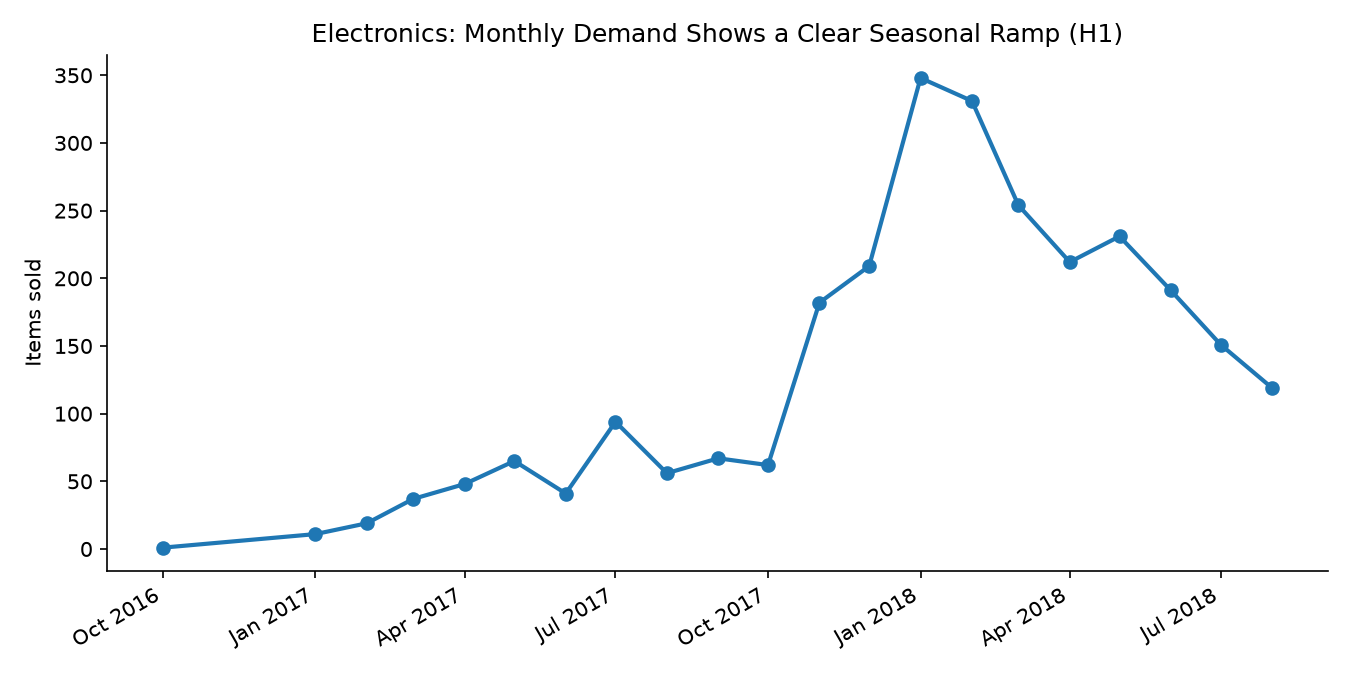
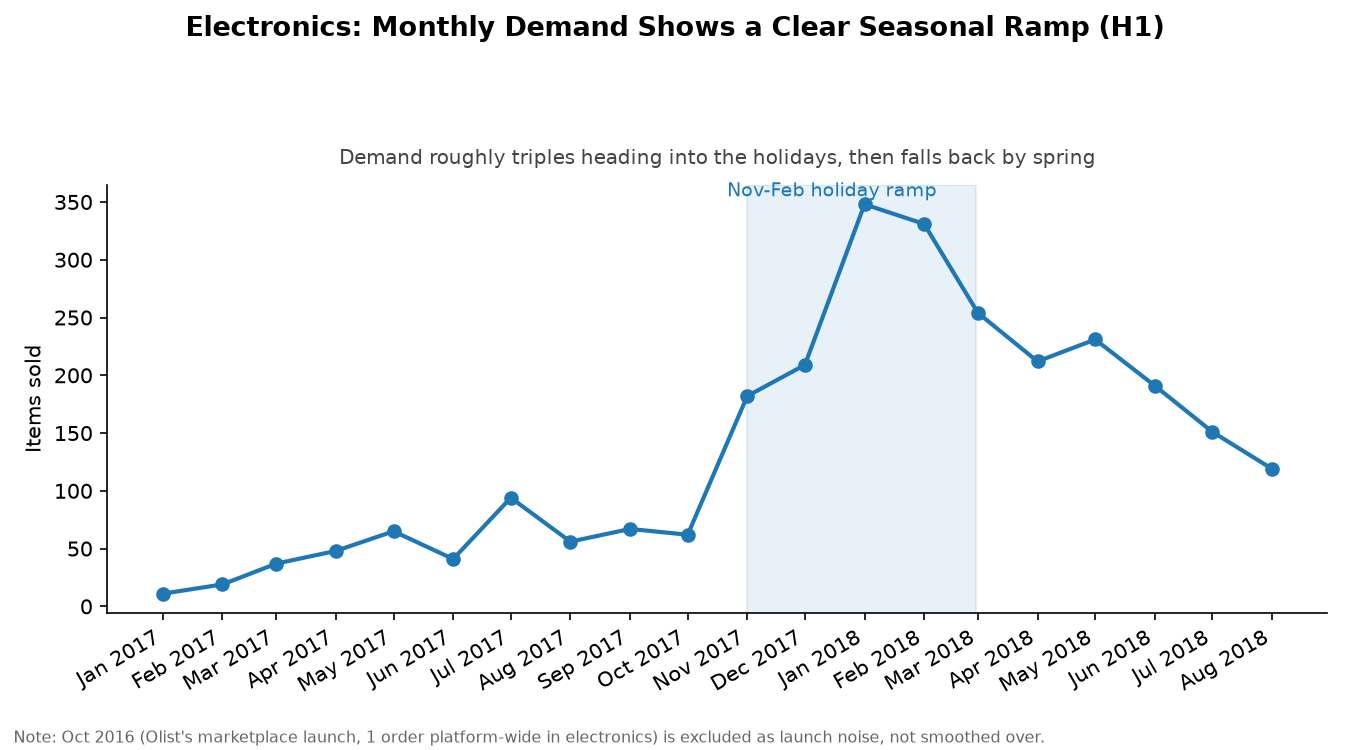
Finalize storytelling/reporting/charts pass (#1)
* Finalize storytelling/reporting/charts pass (accuracy, presentation, plain-language)

- H1 chart: start series at Jan 2017 with a footnote explaining the
  excluded Oct 2016 launch-noise point (1 order), instead of drawing a
  smooth line across the real Nov/Dec 2016 zero-order gap. Add a shaded
  Nov-Feb window and an on-chart takeaway subtitle.
- H2 chart: add an on-chart subtitle disambiguating item-count share
  from revenue share, addressing the "everything's growing yet losing
  share" confusion flagged in code review.
- H3: add a new binned delivery-days vs. review-score chart
  (output/h3_delivery_satisfaction.png) as the primary H3 artifact,
  replacing the raw lm() dump as the first thing a reader sees.
- Promote the H1 chart above the fold in README; add the new H3 chart
  next to its table row.
- README/HYPOTHESES: reword H1's decision to lead with buy-cadence logic
  and name the inventory-risk trade-off; add plain-language lines for
  the H2 confound (with explicit item-share vs. revenue-share framing)
  and H3's regression; trim the Power BI / Postgres sections to their
  public-facing essentials (detail moved to a private note); reformat
  HYPOTHESES.md for readability.
- Remove em dashes and prose double dashes from all public docs and
  code comments (SQL comment markers and decorative code banners left
  untouched, since those are syntax, not punctuation).
- src/03_migrate_to_supabase.py: comment out the pc_gamer translation
[…]

diff --git a/src/02_charts.py b/src/02_charts.py
@@ -1,49 +1,110 @@
 """
 02_charts.py
 
-Two illustrative charts supporting the findings -- kept intentionally
-simple (matplotlib, static PNG). These are placeholders for a Power BI
-report built later directly against the marts (see README "Where Power BI
-fits") -- not the final visualization layer.
+Illustrative charts supporting the findings, kept intentionally simple
+(matplotlib, static PNG). These are placeholders for a Power BI report
+built later directly against the marts (see README "Where Power BI
+fits"), not the final visualization layer. Each chart carries its own
+takeaway as a subtitle so it reads correctly without the surrounding
+README prose.
 """
 import duckdb
+import pandas as pd
 import matplotlib.pyplot as plt
 import matplotlib.dates as mdates
 
 con = duckdb.connect("data/processed/olist.duckdb")
 
-# Chart 1: seasonality curve for electronics (clear holiday-season ramp)
+# --- Chart 1: seasonality curve for electronics (H1) ------------------
+# Oct 2016 is Olist's marketplace launch month: 1 order platform-wide in
+# electronics, then zero orders in Nov/Dec 2016 before real volume starts
+# in Jan 2017. A straight line drawn across that zero-order gap would
+# read as smooth growth no data point supports, so the chart starts at
+# Jan 2017 and the excluded launch-noise point is footnoted instead.
 df = con.execute("""
     SELECT order_month, items_sold FROM mart_category_monthly_demand
-    WHERE category = 'electronics' ORDER BY order_month
+    WHERE category = 'electronics' AND order_month >= '2017-01-01'
+    ORDER BY order_month
 """).df()
-fig, ax = plt.subplots(figsize=(9, 4.5))
+
+fig, ax = plt.subplots(figsize=(9, 5))
 ax.plot(df["order_month"], df["items_sold"], marker="o", color="#1f77b4", linewidth=2)
-ax.set_title("Electronics: Monthly Demand Shows a Clear Seasonal Ramp (H1)")
+
+# Shade the holiday-season window the title/finding actually claims.
+season_start = pd.Timestamp("2017-11-01")
+season_end = pd.Timestamp("2018-02-28")
+ax.axvspan(season_start, season_end, color="#1f77b4", alpha=0.10)
+ax.text(pd.Timestamp("2017-12-15"), df["items_sold"].max() * 1.02,
+        "Nov-Feb holiday ramp", ha="center", fontsize=9, color="#1f77b4")
+
+fig.suptitle("Electronics: Monthly Demand Shows a Clear Seasonal Ramp (H1)",
+             fontsize=13, fontweight="bold", y=0.98)
+ax.set_title("Demand roughly triples heading into the holidays, then falls back by spring",
+             fontsize=9.5, color="#444444", pad=10)
 ax.set_ylabel("Items sold")
+ax.xaxis.set_major_locator(mdates.MonthLocator(interval=1))
 ax.xaxis.set_major_formatter(mdates.DateFormatter("%b %Y"))
 fig.autofmt_xdate()
 ax.spines[["top", "right"]].set_visible(False)
-fig.tight_layout()
+fig.text(0.01, 0.01,
+         "Note: Oct 2016 (Olist's marketplace launch, 1 order platform-wide in "
+         "electronics) is excluded as launch noise, not smoothed over.",
+         fontsize=7.5, color="#666666")
+fig.tight_layout(rect=[0, 0.04, 1, 0.90])
 fig.savefig("output/h1_electronics_seasonality.png", dpi=150)
 print("Wrote output/h1_electronics_seasonality.png")
 
-# Chart 2: growing vs declining share-of-demand categories (H2)
+# --- Chart 2: growing vs declining share-of-demand categories (H2) -----
 df2 = con.execute("""
     SELECT category, share_trend_slope FROM mart_category_share_trend
     ORDER BY share_trend_slope ASC
 """).df()
 top = df2.tail(6)
 bottom = df2.head(6)
-combined = pd_concat = __import__("pandas").concat([bottom, top])
+combined = pd.concat([bottom, top])
 colors = ["#d62728"] * len(bottom) + ["#2ca02c"] * len(top)
 
-fig, ax = plt.subplots(figsize=(9, 5.5))
+fig, ax = plt.subplots(figsize=(9, 6))
 ax.barh(combined["category"], combined["share_trend_slope"] * 1000, color=colors)
-ax.set_title("Gaining vs. Losing Share of Total Demand (H2, net of platform growth)")
+fig.suptitle("Gaining vs. Losing Share of Total Demand (H2, net of platform growth)",
+             fontsize=13, fontweight="bold", y=0.98)
+ax.set_title(
+    "Share = percent of that month's items sold (not revenue). A category\n"
+    "can lose share here even while total platform volume is rising.",
+    fontsize=9.5, color="#444444", pad=16)
 ax.set_xlabel("Monthly change in demand share (x1000, positive = gaining share)")
 ax.axvline(0, color="black", linewidth=0.8)
 ax.spines[["top", "right"]].set_visible(False)
-fig.tight_layout()
+fig.tight_layout(rect=[0, 0, 1, 0.85])
 fig.savefig("output/h2_share_trend.png", dpi=150)
 print("Wrote output/h2_share_trend.png")
+
+# --- Chart 3: delivery speed vs. review score (H3) ---------------------
+# The regression (r/h3_delivery_satisfaction.R) is the actual H3 test;
+# this chart makes its finding visible without reading a raw lm() dump.
+df3 = con.execute("""
+    SELECT delivery_days, review_score FROM mart_order_satisfaction
+    WHERE delivery_days >= 0 AND delivery_days < 120
+""").df()
+bins = [-0.5, 5.5, 10.5, 20.5, 1000]
+labels = ["0-5 days", "6-10 days", "11-20 days", "21+ days"]
+df3["bucket"] = pd.cut(df3["delivery_days"], bins=bins, labels=labels)
+summary = df3.groupby("bucket", observed=True)["review_score"].mean()
+
+fig, ax = plt.subplots(figsize=(8, 5))
+ax.bar(summary.index.astype(str), summary.values, color="#1f77b4")
+ax.plot(summary.index.astype(str), summary.values, color="#d62728",
+        marker="o", linewidth=2)
+fig.suptitle("Faster Delivery Predicts Higher Review Scores (H3)",
+             fontsize=13, fontweight="bold", y=0.98)
+ax.set_title(
+    "Each extra week of delivery time costs roughly a third of a star,\n"
+    "holding price and category fixed (R² = 0.1085, p < 0.001)",
+    fontsize=9.5, color="#444444", pad=16)
+ax.set_ylabel("Average review score (1-5)")
+ax.set_ylim(1, 5)
+ax.spines[["top", "right"]].set_visible(False)
+fig.tight_layout(rect=[0, 0, 1, 0.85])
+fig.savefig("output/h3_delivery_satisfaction.png", dpi=150)
+print("Wrote output/h3_delivery_satisfaction.png")
+print("(Full regression detail: run r/h3_delivery_satisfaction.R -> output/h3_regression_summary.txt)")

diff --git a/src/03_migrate_to_supabase.py b/src/03_migrate_to_supabase.py
@@ -7,9 +7,11 @@ fixes surfaced by a pre-migration review (see README "Database Review"):
 
   1. raw.category_translation is missing English translations for two
      categories that real products reference ('pc_gamer' and
-     'portateis_cozinha_e_preparadores_de_alimentos') -- added explicitly
+     'portateis_cozinha_e_preparadores_de_alimentos'), added explicitly
      below so the products -> category_translation FK is enforceable
      honestly instead of silently failing or being left unconstrained.
+     'pc_gamer' maps to itself (already an English/brand term), but the
+     row still has to exist for the FK, so it's inserted like the other.
   2. raw.reviews has no usable single-column key: the same review_id
      appears against multiple order_ids, and 547 orders have more than
      one review row. The composite (review_id, order_id) IS unique and
@@ -38,7 +40,7 @@ MISSING_TRANSLATIONS = [
 ]
 
 # (schema-qualified table, source CSV, whether this table has FKs that
-# require its parents to already be loaded -- drives load order)
+# require its parents to already be loaded, which drives load order)
 LOAD_ORDER = [
     ("raw.category_translation", "product_category_name_translation.csv"),
     ("raw.sellers", "olist_sellers_dataset.csv"),

diff --git a/src/01_build_marts.py b/src/01_build_marts.py
@@ -2,10 +2,11 @@
 01_build_marts.py
 
 Loads the real Olist Brazilian e-commerce dataset (public, Kaggle:
-olistbr/brazilian-ecommerce, CC-BY-NC-SA-4.0 -- ~99k real orders across
-relational tables) into DuckDB and builds governed marts that answer the
-hypotheses in HYPOTHESES.md. Marts, not raw tables, are what a BI tool
-(Power BI) should ever connect to -- see README "Where Power BI fits."
+olistbr/brazilian-ecommerce, CC-BY-NC-SA-4.0), roughly 99k real orders
+across relational tables, into DuckDB and builds governed marts that
+answer the hypotheses in HYPOTHESES.md. Marts, not raw tables, are what
+a BI tool (Power BI) should ever connect to; see README "Where Power BI
+fits."
 
 DuckDB is used instead of a live Postgres server so the repo runs for
 anyone who clones it with zero setup; the SQL is written in portable
@@ -112,7 +113,7 @@ con.execute("""
 # overall marketplace growth over this period (almost every category's raw
 # count trends up simply because total order volume scaled up). Trending
 # each category's *share* of total monthly demand isolates real relative
-# growth/decline -- the actual test of H2.
+# growth/decline, the actual test of H2.
 con.execute("""
     CREATE TABLE mart_category_share_trend AS
     WITH monthly AS (

diff --git a/src/04_rebuild_marts.py b/src/04_rebuild_marts.py
@@ -3,9 +3,9 @@
 
 Rebuilds just the staging + marts tables (raw tables don't change) against
 Supabase Postgres, and logs row counts + a headline KPI. Run by the
-scheduled GitHub Action (.github/workflows/rebuild_marts.yml) -- keeps
-the free-tier Supabase project active and re-verifies the pipeline still
-runs cleanly end to end against real Postgres.
+scheduled GitHub Action (.github/workflows/rebuild_marts.yml), which
+keeps the free-tier Supabase project active and re-verifies the pipeline
+still runs cleanly end to end against real Postgres.
 
 Reads SUPABASE_DB_URL from the environment (GitHub Actions secret in CI;
 falls back to a local .env for manual runs).

diff --git a/README.md b/README.md
@@ -1,6 +1,8 @@
 # Consignment/Resale Sell-Through & Timing Analytics
 
-**A hypothesis-driven demo build**, framed as the question a resale/consignment operator (à la TheRealReal) actually asks: *what's selling, when should we sell it, and when should we be buying it?* Every finding below started as a stated hypothesis (see [HYPOTHESES.md](HYPOTHESES.md)), was tested against real transaction data, and closed with a decision — not a chart in search of a story.
+**A hypothesis-driven demo build**, framed as the question a resale/consignment operator (à la TheRealReal) actually asks: *what's selling, when should we sell it, and when should we be buying it?* Every finding below started as a stated hypothesis (see [HYPOTHESES.md](HYPOTHESES.md)), was tested against real transaction data, and closed with a decision, not a chart in search of a story.
+
+![Electronics seasonality](output/h1_electronics_seasonality.png)
 
 ## The business question
 
@@ -10,63 +12,66 @@
 
 | # | Hypothesis | Result | Decision |
 |---|---|---|---|
-| H1 | Category demand is seasonal, not flat | **Confirmed** — demand volatility (CV) ranges 0.42–0.65 across top categories; `electronics` shows a clear Nov–Feb ramp (holiday season) | Build category-specific buy calendars, not one blanket cadence |
-| H2 | Some categories are structurally growing/shrinking, independent of season | **Confirmed, but only after correcting for a confound** (see below) — `watches_gifts` is gaining real share of demand; `fashion_bags_accessories` and `health_beauty` are losing share despite raw volume looking flat-to-up | Weight buy volume toward share-gaining categories now, before it shows up in raw sales; flag share-losing categories for markdown, not restock |
-| H3 | Faster delivery predicts higher customer satisfaction | **Confirmed** — review score drops from 4.36 (0–5 day delivery) to 3.13 (21+ days), R² = 0.1085, delivery_days coefficient significant at p < 0.001 | Delivery-speed investment is a justified demand-side lever, not just a cost center |
+| H1 | Category demand is seasonal, not flat | **Confirmed:** demand volatility (CV) ranges 0.42 to 0.65 across top categories; `electronics` shows a clear Nov to Feb ramp (holiday season) | Time each category's buying to its own seasonal cadence instead of one company-wide schedule, but weigh that against holding-cost and demand risk (a category exposed to shifting consumer sentiment, e.g. fur-adjacent fashion, carries real risk in buying ahead of a seasonal peak) |
+| H2 | Some categories are structurally growing/shrinking, independent of season | **Confirmed, but only after correcting for a confound** (see below): `watches_gifts` is gaining real share of demand; `fashion_bags_accessories` and `health_beauty` are losing share despite raw volume looking flat to up | Weight buy volume toward share-gaining categories now, before it shows up in raw sales; flag share-losing categories for markdown, not restock |
+| H3 | Faster delivery predicts higher customer satisfaction | **Confirmed:** review score drops from 4.36 (0 to 5 day delivery) to 3.13 (21+ days), R² = 0.1085, delivery_days coefficient significant at p < 0.001. In plain terms: each additional week of delivery time costs roughly a third of a star in review score, holding price and category fixed | Delivery-speed investment is a justified demand-side lever, not just a cost center |
+
+![Delivery speed vs review score](output/h3_delivery_satisfaction.png)
 
 ## The confound I caught before reporting H2
 
-The first pass at H2 used raw item-count trend per category and nearly every category showed "growth" — because Olist's total order volume grew substantially over the dataset's timeframe, so almost anything trends up in raw terms. That's not category-specific signal, it's platform growth leaking into every number. I re-ran H2 on each category's **share of total monthly demand** instead, which isolates real relative winners and losers:
+**What "confound" means here:** a confound is a second, unrelated force that moves your number in the same direction as the thing you're actually trying to measure, so the number looks like a real finding when it's really just noise from something else. The first pass at H2 used raw item-count trend per category and nearly every category showed "growth," but that's because Olist's total order volume grew substantially over the dataset's timeframe, so almost anything trends up in raw terms. That's the confound: platform growth leaking into every category's number, not category-specific signal.
 
-- `health_beauty` looked like the *strongest raw grower* (steepest raw slope) but is actually **losing share** once platform growth is netted out — its raw growth is just riding the marketplace's overall expansion, not outperforming it.
-- `watches_gifts` is the real structural winner (R² = 0.80 on its share trend — a genuinely strong, clean signal, not noise).
+To net that out, "share" here is each category's **share of total items sold that month** (not a share of revenue, since that's a separate question with its own decision implications; see below), so I re-ran H2 on each category's share of total monthly demand instead, which isolates real relative winners and losers:
+
+- `health_beauty` looked like the *strongest raw grower* (steepest raw slope) but is actually **losing share** once platform growth is netted out. Its raw growth is just riding the marketplace's overall expansion, not outperforming it.
+- `watches_gifts` is the real structural winner (R² = 0.80 on its share trend, a genuinely strong, clean signal, not noise).
 
 This is the difference between a dashboard number and an analysis: the confound doesn't show up unless you go looking for it, and reporting it (rather than the more impressive-looking raw number) is the point.
 
+**Item-count share vs. revenue share, and why the choice matters:** the marts here use item-count share (units sold), because H2's decision is a buy/inventory question, "which categories should we stock more or less of," and units are what a buyer actually orders. A revenue-share version of the same trend would answer a different question, "which categories should we prioritize for margin/pricing," and could disagree with the units-based answer (e.g. a category selling fewer units at a higher price could gain revenue share while losing item share). Both are valid; this project reports item share because it matches the buy-timing decision H2 is meant to drive.
+
 ![Share trend chart](output/h2_share_trend.png)
-![Electronics seasonality](output/h1_electronics_seasonality.png)
 
 ## What I'd do next as the analytics lead
 
 1. **Buy calendar by category**, not SKU-by-SKU: seed it with the top-10 categories' seasonality curves (H1), starting with `electronics` and `bed_bath_table` where the seasonal signal is strongest and highest-volume.
-2. **Shift acquisition weight toward `watches_gifts`-type categories**: real share growth (R² = 0.80) is a leading indicator, not a lagging one — the point of catching it now is acting before it's obvious in raw sales.
-3. **Open a markdown/exit review on `fashion_bags_accessories` and `health_beauty`**: losing share despite decent raw volume is exactly the pattern that gets missed if you only watch raw numbers — worth a pricing or sourcing-mix conversation before it compounds.
-4. **Take the delivery-satisfaction link (H3) to ops as a funded initiative, not a soft goal**: attach a dollar figure to it before proposing — next iteration should pair delivery-days against reorder/repeat-purchase behavior (not available in this dataset) to convert "higher review score" into "higher lifetime value," which is the number that actually greenlights budget.
-5. **Turn this into a living scorecard**: rerun `mart_category_share_trend` monthly and alert on any category crossing from share-gaining to share-losing — that transition point, not the steady state, is when a buying decision should change.
+2. **Shift acquisition weight toward `watches_gifts`-type categories**: real share growth (R² = 0.80) is a leading indicator, not a lagging one, and the point of catching it now is acting before it's obvious in raw sales.
+3. **Open a markdown/exit review on `fashion_bags_accessories` and `health_beauty`**: losing share despite decent raw volume is exactly the pattern that gets missed if you only watch raw numbers, worth a pricing or sourcing-mix conversation before it compounds.
+4. **Take the delivery-satisfaction link (H3) to ops as a funded initiative, not a soft goal**: attach a dollar figure to it before proposing; the next iteration should pair delivery-days against reorder/repeat-purchase behavior (not available in this dataset) to convert "higher review score" into "higher lifetime value," which is the number that actually greenlights budget.
+5. **Turn this into a living scorecard**: rerun `mart_category_share_trend` monthly and alert on any category crossing from share-gaining to share-losing; that transition point, not the steady state, is when a buying decision should change.
 
 ## Where Power BI fits (and where it doesn't)
 
-Nowhere yet, deliberately. The marts in `data/processed/*.csv` (and `olist.duckdb`) are the governed layer — sell-through logic, seasonality, and share-trend math are all defined once, here, in SQL, and validated against the hypotheses above. Power BI's job is to visualize that layer, not redefine it — connecting a BI tool straight to raw order/item tables invites five different people computing "demand trend" five different ways. When this becomes a Power BI report, it connects to the marts as-is; I'm building that piece separately.
-
-**A note on the schema shape:** `raw` mirrors the source as multiple already-relational tables (Olist's export is itself multi-table, not a flat feed), so `staging` builds *up* from raw into one clean fact table rather than *splitting* a flat bronze layer apart — same silver principle ("clean, conformed, single grain"), just running the direction this source actually needs. This also isn't a formal star schema (marts embed category as a plain column rather than joining a `dim_category`) or a Data Vault model (no hub/link/satellite — that pattern earns its complexity with multiple live source systems and a real historization need, which this project doesn't have). Both are deliberate calls, not gaps.
+Nowhere yet, deliberately. The marts in `data/processed/*.csv` (and `olist.duckdb`) are the governed layer: sell-through logic, seasonality, and share-trend math are all defined once, here, in SQL, and validated against the hypotheses above. Power BI's job is to visualize that layer, not redefine it, since connecting a BI tool straight to raw order/item tables invites five different people computing "demand trend" five different ways. When this becomes a Power BI report, it connects to the marts as-is; I'm building that piece separately. (Schema-design reasoning for why `raw`/`staging`/`marts` is shaped the way it is lives in a private note, not the public repo.)
 
 ## Database review (done before adding foreign keys, not after)
 
-The Postgres build is designed as a proper **bronze → silver → gold** (raw → staging → marts) schema, with real foreign keys in `raw` — not just table-name prefixes like the earlier DuckDB-only version. Before adding those constraints, I ran a referential-integrity and key-uniqueness pass against the loaded data, which is the actual point of this section: constraints should be added *because* a review confirmed they'd hold, not discovered broken after a failed migration.
+The Postgres build is designed as a proper **bronze → silver → gold** (raw → staging → marts) schema, with real foreign keys in `raw`, not just table-name prefixes like the earlier DuckDB-only version. Before adding those constraints, I ran a referential-integrity and key-uniqueness pass against the loaded data, which is the actual point of this section: constraints should be added *because* a review confirmed they'd hold, not discovered broken after a failed migration.
 
 **What the review found:**
 
 | Check | Result | Decision |
 |---|---|---|
-| Orphan `order_items` / `reviews` rows referencing missing orders, products, or sellers | **0 found** — clean | Safe to add FKs on `order_items` and `reviews` with no data loss |
+| Orphan `order_items` / `reviews` rows referencing missing orders, products, or sellers | **0 found**, clean | Safe to add FKs on `order_items` and `reviews` with no data loss |
 | Products referencing a category missing from `category_translation` | **13 rows**, 2 real categories (`pc_gamer`, `portateis_cozinha_e_preparadores_de_alimentos`) genuinely missing from Olist's own translation table | Added both translations explicitly (`src/03_migrate_to_supabase.py`) so the FK is enforced honestly instead of left unconstrained or silently failing |
-| `review_id` uniqueness (candidate primary key) | **Not unique** — the same `review_id` appears against multiple distinct `order_id`s (98,410 distinct review_id across 99,224 rows) | `review_id` alone can't be a PK; used the composite `(review_id, order_id)`, confirmed unique, as the real key |
-| Orders with more than one review row | **547 orders** have 2+ review submissions | A naive join on `order_id` would have silently duplicated line-item rows for those 547 orders, inflating H3's sample size without anyone noticing. Reviews are resolved to one score per order (average) *before* joining to line items — applied in both the Postgres and DuckDB builds for consistency |
-| Duplicate primary keys on `orders`, `products`, `(order_id, order_item_id)` | **0 found** — clean | No dedup logic needed on the core tables |
+| `review_id` uniqueness (candidate primary key) | **Not unique**, the same `review_id` appears against multiple distinct `order_id`s (98,410 distinct review_id across 99,224 rows) | `review_id` alone can't be a PK; used the composite `(review_id, order_id)`, confirmed unique, as the real key |
+| Orders with more than one review row | **547 orders** have 2+ review submissions | A naive join on `order_id` would have silently duplicated line-item rows for those 547 orders, inflating H3's sample size without anyone noticing. Reviews are resolved to one score per order (average) before joining to line items, applied in both the Postgres and DuckDB builds for consistency |
+| Duplicate primary keys on `orders`, `products`, `(order_id, order_item_id)` | **0 found**, clean | No dedup logic needed on the core tables |
 
-The last finding (order-review fan-out) was the one that actually mattered: it was silently present in the very first version of this project's H3 analysis (both the DuckDB build and the first Postgres migration used a plain join), inflating N by about 650 rows with no error or warning. Fixing it changed the R² from 0.1080 to 0.1085 — a negligible shift, which is itself worth stating: the original (flawed) number and the corrected number tell the same story, so this wasn't a result-changing bug, but it's exactly the kind of silent join fan-out that *can* change a result, and it's worth catching on principle rather than only when it happens to matter.
+The last finding (order-review fan-out) was the one that actually mattered: it was silently present in the very first version of this project's H3 analysis (both the DuckDB build and the first Postgres migration used a plain join), inflating N by about 650 rows with no error or warning. Fixing it changed the R² from 0.1080 to 0.1085, a negligible shift, which is itself worth stating: the original (flawed) number and the corrected number tell the same story, so this wasn't a result-changing bug, but it's exactly the kind of silent join fan-out that can change a result, and it's worth catching on principle rather than only when it happens to matter.
 
 ## Postgres via Supabase
 
-The marts also run on real Postgres (Supabase), not just DuckDB — `sql/postgres_schema.sql` is a proper medallion-layered schema (`raw` → `staging` → `marts`), not a flat set of tables: real foreign keys live in `raw`, so Supabase's Schema Visualizer renders an actual ER diagram from the constraints themselves (this is a genuine mechanical difference from Power BI, where relationships can be drawn virtually without a real FK in the source — Postgres requires the constraint to exist). `staging.fact_order_items` is the named silver layer; `marts.*` is gold, denormalized on purpose since it's built to be queried, not normalized. Postgres has the same `regr_slope`/`regr_r2` aggregates DuckDB does, so the trend math is unchanged. `src/03_migrate_to_supabase.py` loads raw tables (parents before children, since real FKs enforce load order) and builds staging/marts once; a scheduled GitHub Action (`.github/workflows/rebuild_marts.yml`, weekly) reruns just the staging/marts SQL against Supabase, which does two things at once: keeps the free-tier project active (API/DB access resets Supabase's inactivity-pause clock), and re-verifies the pipeline runs cleanly end to end on a real server, not just locally.
+The marts also run on real Postgres (Supabase), not just DuckDB. `sql/postgres_schema.sql` is a proper medallion-layered schema (`raw` to `staging` to `marts`) with real foreign keys in `raw`, and `src/03_migrate_to_supabase.py` loads it once; a scheduled GitHub Action (`.github/workflows/rebuild_marts.yml`, weekly) reruns just the staging/marts SQL against Supabase, which does two things at once: keeps the free-tier project active, and re-verifies the pipeline runs cleanly end to end on a real server, not just locally. (Mechanical detail on the schema, the ER diagram, and load order lives in a private note, not the public repo.)
 
-The connection string lives only in a local `.env` (gitignored, never committed) and as a `SUPABASE_DB_URL` GitHub Actions secret — never in a file, workflow YAML, or commit.
+The connection string lives only in a local `.env` (gitignored, never committed) and as a `SUPABASE_DB_URL` GitHub Actions secret, never in a file, workflow YAML, or commit.
 
 ## Data & assumptions (read before judging the "sell-through" framing)
 
-Real data: the [Olist Brazilian E-Commerce dataset](https://www.kaggle.com/datasets/olistbr/brazilian-ecommerce) (public, Kaggle, CC-BY-NC-SA-4.0 — non-commercial use; this is a portfolio/demo project, not a commercial product) — ~99,441 real orders, ~110k delivered line items, across relational tables (orders, items, products, sellers, reviews).
+Real data: the [Olist Brazilian E-Commerce dataset](https://www.kaggle.com/datasets/olistbr/brazilian-ecommerce) (public, Kaggle, CC-BY-NC-SA-4.0, non-commercial use; this is a portfolio/demo project, not a commercial product), roughly 99,441 real orders and 110k delivered line items, across relational tables (orders, items, products, sellers, reviews).
 
-**Important limitation, stated up front:** Olist is a direct-sale marketplace, not held consignment inventory — there's no "days an item sat unsold before selling" in this data, because every row is an already-completed sale. `mart_category_monthly_demand`, `mart_category_summary`, and `mart_category_share_trend` are the honest available proxy for buy/sell timing: how fast a category is moving and whether that's accelerating or decelerating, which is the same underlying decision a consignment buyer/seller has to make, even though it's not a literal "days on the rack" figure. Everything else — the joins, the seasonality math, the regression — is real analysis on real data.
+**Important limitation, stated up front:** Olist is a direct-sale marketplace, not held consignment inventory, so there's no "days an item sat unsold" in this data; every row is an already-completed sale. The marts here use category demand velocity (how fast a category is moving, and whether that's speeding up or slowing down) as the honest available proxy for that timing decision. The joins, seasonality math, and regression behind it are real analysis on real data.
 
 ## Repo structure
 
@@ -98,4 +103,4 @@ Rscript r/h3_delivery_satisfaction.R
 
 ## Stack
 
-Python (pandas, DuckDB) · SQL (DuckDB, portable to Postgres unchanged) · R — chosen so this runs for anyone who clones it, no server/cloud account required. See commit history for the reasoning on the Postgres-vs-DuckDB call.
+Python (pandas, DuckDB) · SQL (DuckDB, portable to Postgres unchanged) · R, chosen so this runs for anyone who clones it, no server/cloud account required. See commit history for the reasoning on the Postgres-vs-DuckDB call.

diff --git a/HYPOTHESES.md b/HYPOTHESES.md
@@ -4,48 +4,67 @@ Framed as a resale/consignment operator's buy-and-sell-timing question:
 **"What should we buy more of, what should we hold off on, and when should
 we be listing each category?"** Every hypothesis below is stated before
 looking at the result, tested against real data, and closed out with a
-stated decision — not retrofitted to a chart that already looked
+stated decision, not retrofitted to a chart that already looked
 interesting.
 
-## H1 — Category demand is seasonal, not flat
+## H1: Category demand is seasonal, not flat
+
 **Claim:** Monthly order volume within a category varies enough by
-calendar month that "when to stock" is a real, category-specific decision
-— not a single answer for the whole catalog.
-**Test:** Monthly order count and revenue by category (`mart_category_monthly_demand`),
-coefficient of variation across months per category.
-**Decision if true:** Build category-specific buy calendars instead of one
-blanket inventory cadence.
+calendar month that "when to stock" is a real, category-specific decision,
+not a single answer for the whole catalog.
+
+**Test:** Monthly order count and revenue by category
+(`mart_category_monthly_demand`), coefficient of variation across months
+per category.
+
+**Decision if true:** Time each category's buying to its own seasonal
+cadence instead of one company-wide schedule, but weigh that against
+holding-cost and demand risk (a category exposed to shifting consumer
+sentiment, e.g. fur-adjacent fashion, carries real risk in buying ahead
+of a seasonal peak).
+
 **Decision if false:** Deprioritize seasonality as a planning input; focus
 buy-timing decisions on price/margin signals instead.
 
-## H2 — Some categories are structurally growing or shrinking, independent of season
+## H2: Some categories are structurally growing or shrinking, independent of season
+
 **Claim:** Beyond month-to-month noise, certain categories show a real
-trend (up or down) across the dataset's full time span.
-**Test:** Linear trend fit (month index -> order volume) per top category;
-categories with a statistically significant, non-trivial slope are flagged
-growing/declining.
+trend (up or down) across the dataset's full time span, once overall
+platform growth is netted out (see README "The confound I caught before
+reporting H2").
+
+**Test:** Linear trend fit (month index -> share of that month's total
+items sold) per top category; categories with a statistically
+significant, non-trivial slope are flagged growing/declining.
+
 **Decision if true:** Weight buy volume toward growing categories now,
 before a trend is obvious from raw sales; flag declining categories for
 markdown/exit rather than restock.
+
 **Decision if false:** Trend isn't a reliable lever here; fall back to
 season-only planning (H1).
 
-## H3 — Delivery speed is associated with customer satisfaction (review score)
+## H3: Delivery speed is associated with customer satisfaction (review score)
+
 **Claim:** Faster time-to-delivery predicts higher review scores, holding
-price and category roughly constant — i.e., "getting product to market
-fast" is not just an internal ops metric, it's a demand-side lever
-(satisfied buyers → repeat business → resale reputation, which matters
+price and category roughly constant. In other words, "getting product to
+market fast" is not just an internal ops metric, it's a demand-side lever
+(satisfied buyers, repeat business, resale reputation, which matters
 disproportionately in consignment/resale).
+
 **Test:** Linear regression (R, reported with R²): review_score ~
 delivery_days + price + freight_value + category.
+
 **Decision if true:** Delivery-time SLAs become a prioritized operational
-investment, not just a cost center — justify the spend with the
+investment, not just a cost center; justify the spend with the
 satisfaction linkage.
+
 **Decision if false (or R² trivial):** Don't over-invest in delivery-speed
 initiatives on customer-satisfaction grounds alone; look for other levers.
 
 ## Explicit limitation (read before judging "days to sell")
-Olist is a direct-sale marketplace — every row is an already-completed
+
+Olist is a direct-sale marketplace: every row is an already-completed
 purchase, so there's no "days an item sat unsold" the way there would be
 in a real consignment inventory system. `mart_category_monthly_demand`
 and the seasonality/trend work are the honest proxy for buy/sell timing
